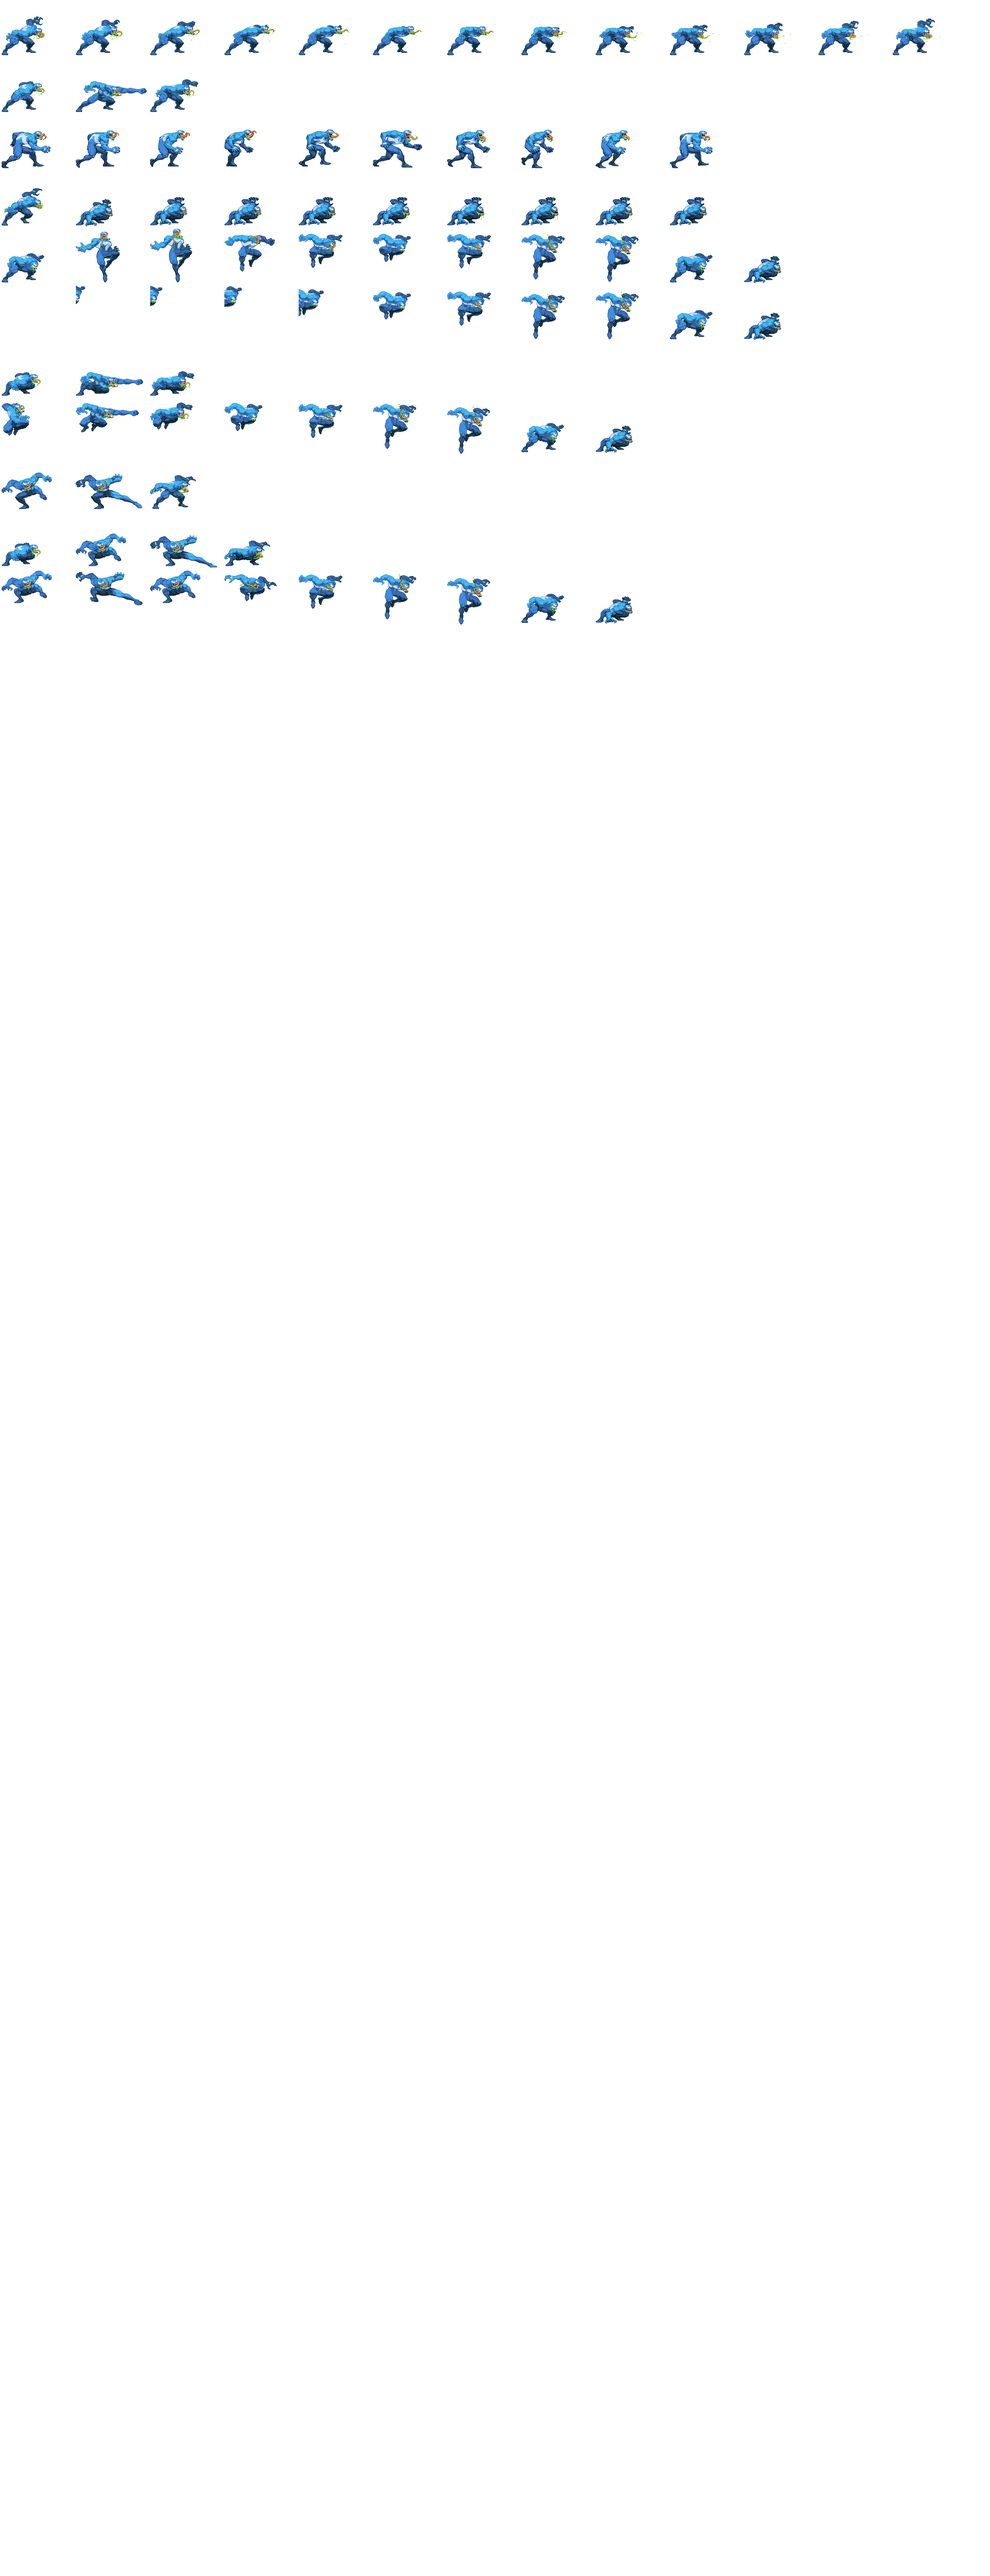
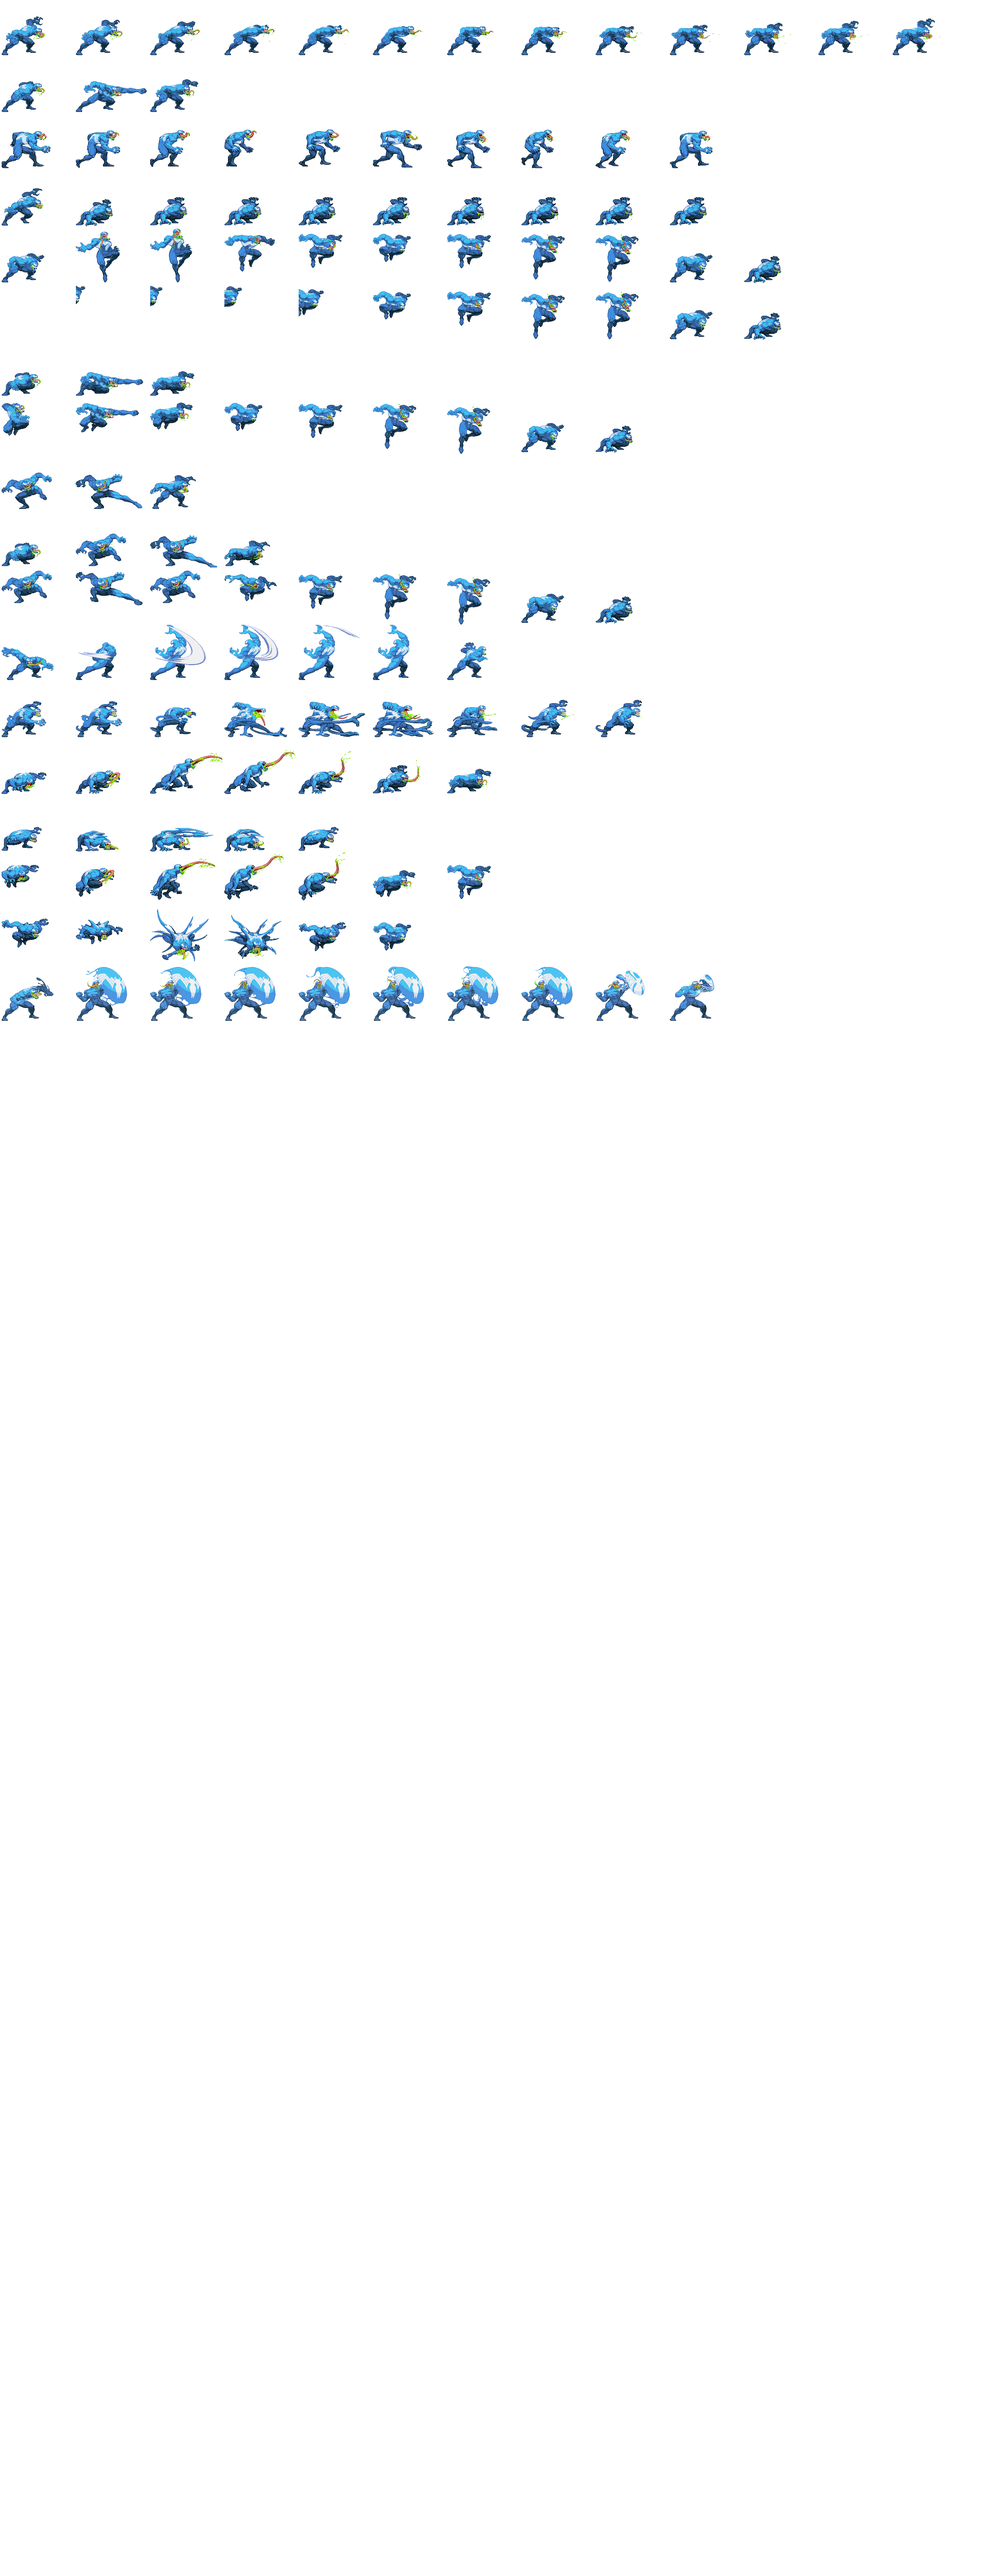
modifico a venom

diff --git a/source/view/SpriteAnimado.cpp b/source/view/SpriteAnimado.cpp
@@ -124,13 +124,13 @@ void SpriteAnimado::cargarAnimaciones(string nombre){
 		Animacion *patadaAS=new Animacion("patadaAS",4,0,1548,225,172,8);//patada agachado simple
 		Animacion *golpeSS=new Animacion("golpeSS",9,0,1204,225,172,6);//golpe saltando simple
 		Animacion *patadaSS=new Animacion("patadaSS",9,0,1720,225,172,6);//patada saltando simple
-		Animacion *golpeF=new Animacion("golpeF",3,0,1032,225,172,8);//golpe fuerte
-		Animacion *patadaF=new Animacion("patadaF",6,0,1204,225,172,6);//patada fuerte
-		Animacion *golpeAF=new Animacion("golpeAF",3,0,1548,225,172,8);//golpe agachado fuerte
-		Animacion *patadaAF=new Animacion("patadaAF",4,0,1376,225,172,16);//patada agachado fuerte
-		Animacion *golpeSF=new Animacion("golpeSF",4,0,1892,225,172,10);//golpe saltando fuerte
-		Animacion *patadaSF=new Animacion("patadaSF",4,0,1720,225,172,10);//patada saltando fuerte
-		Animacion *defensa=new Animacion("defensa",1,1,1,1,1,1);
+		Animacion *golpeF=new Animacion("golpeF",7,0,1892,225,172,8);//golpe fuerte
+		Animacion *patadaF=new Animacion("patadaF",9,0,2064,225,172,6);//patada fuerte
+		Animacion *golpeAF=new Animacion("golpeAF",7,0,2236,225,172,8);//golpe agachado fuerte
+		Animacion *patadaAF=new Animacion("patadaAF",5,0,2408,225,172,16);//patada agachado fuerte
+		Animacion *golpeSF=new Animacion("golpeSF",7,0,2580,225,172,10);//golpe saltando fuerte
+		Animacion *patadaSF=new Animacion("patadaSF",6,0,2752,225,172,10);//patada saltando fuerte
+		Animacion *defensa=new Animacion("defensa",10,0,2924,225,172,8);
 		animaciones.push_back(defensa);		
 		animaciones.push_back(golpeF);
 		animaciones.push_back(patadaF);
